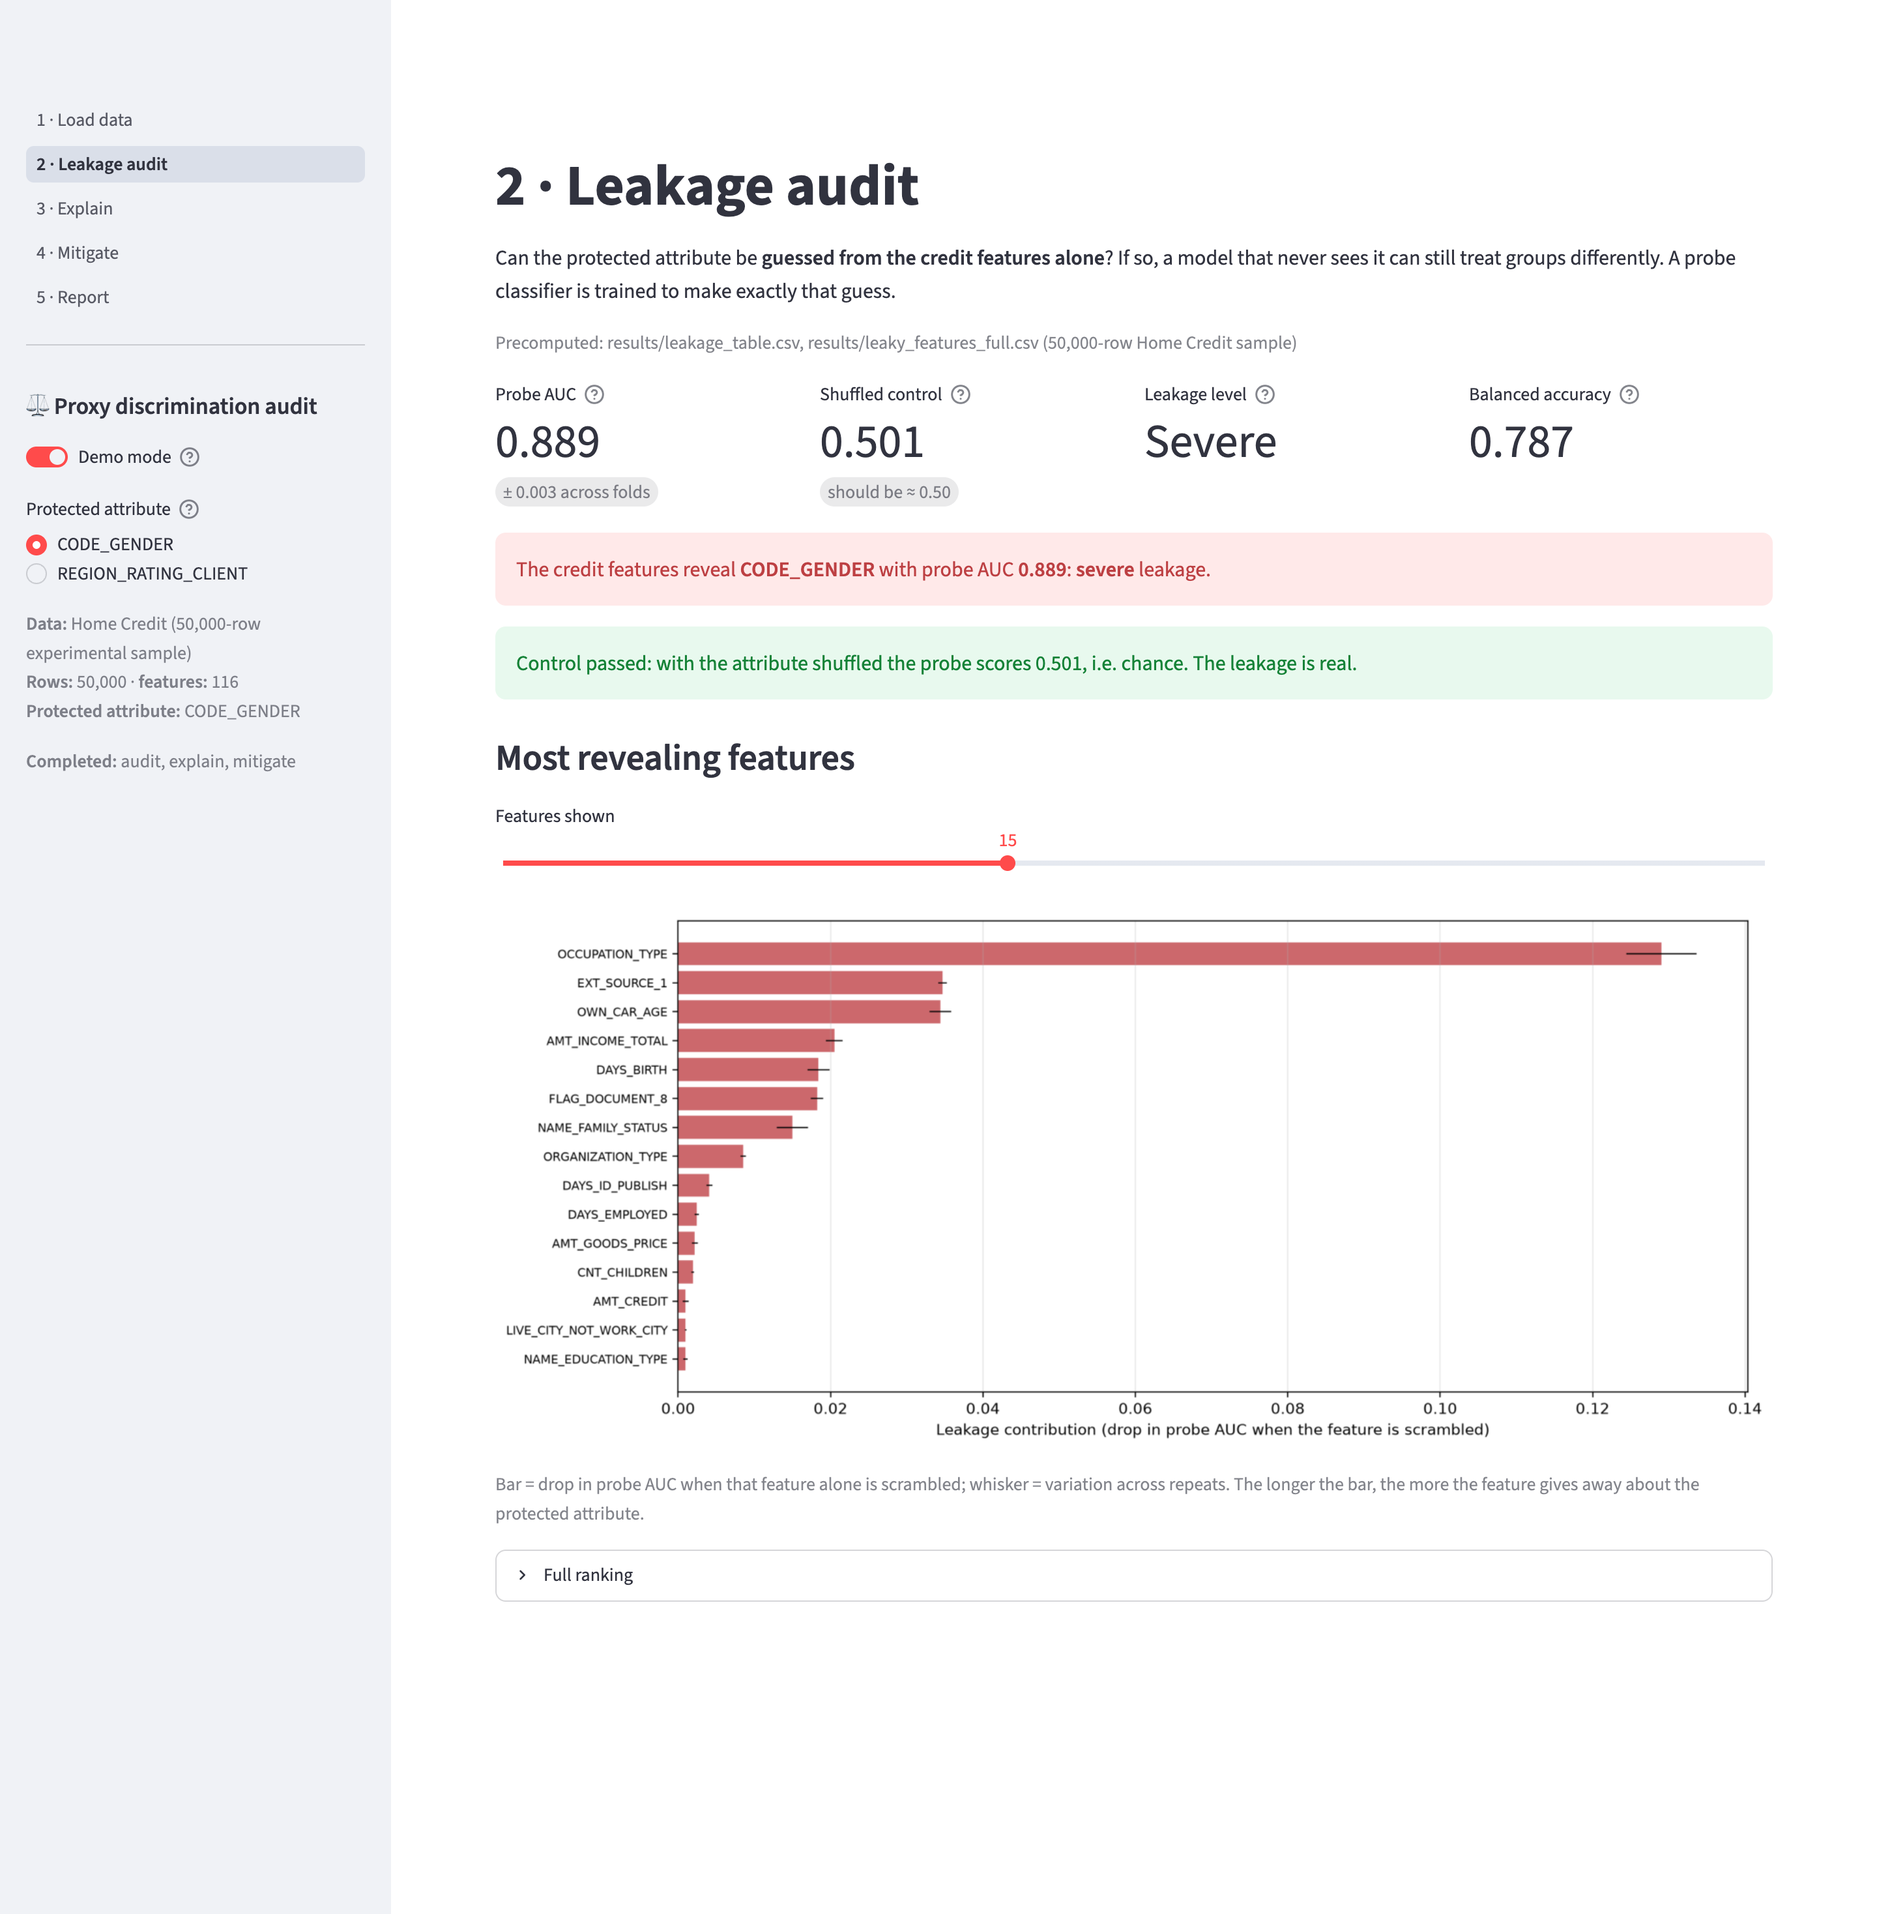
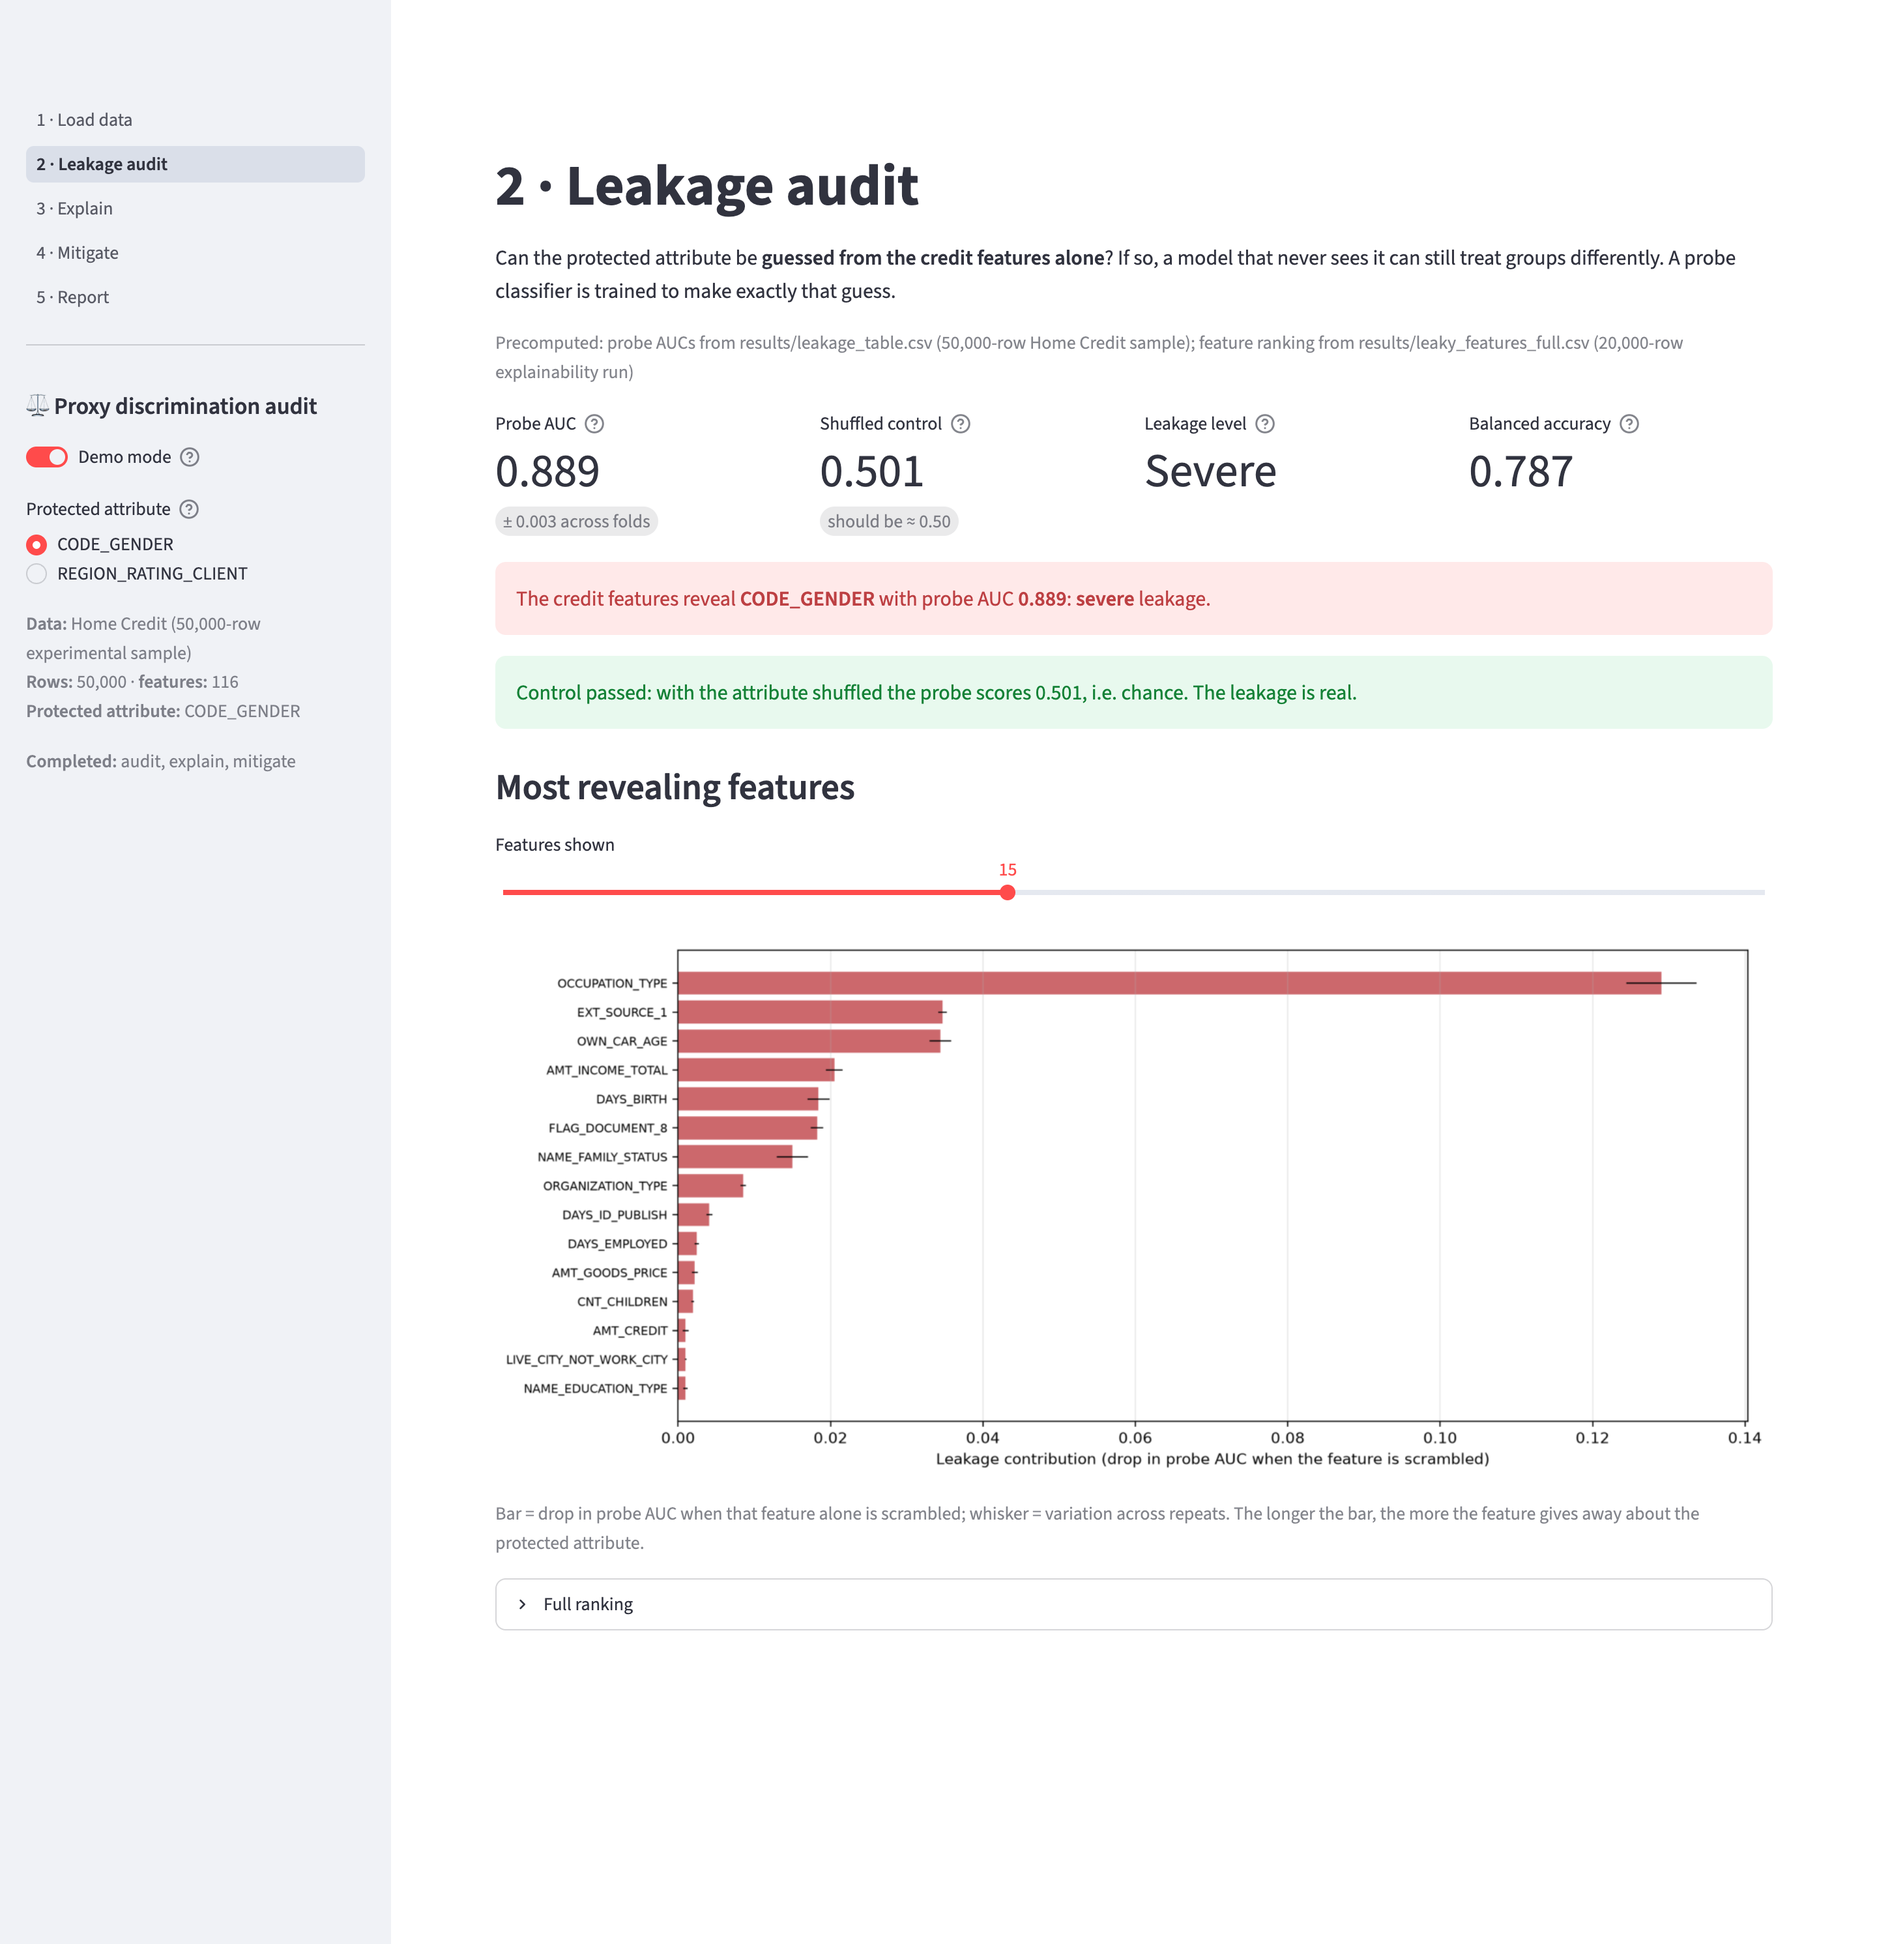
Name the explainability run as the source of the demo leakage ranking
The Screen 2 demo caption attributed results/leaky_features_full.csv to the
50,000-row sample. That file is written by run_explainability.py on a
20,000-row sample; only the probe AUCs in results/leakage_table.csv come from
the 50,000-row run. Retake the Screen 2 screenshot with the corrected caption.

diff --git a/app/engine.py b/app/engine.py
@@ -355,8 +355,9 @@ def manufactured(transitions: pd.DataFrame) -> pd.DataFrame:
 # ==========================================================================
 DEMO_ATTRIBUTES = ["CODE_GENDER", "REGION_RATING_CLIENT"]
 DEMO_SOURCE = {
-    "audit": "results/leakage_table.csv, results/leaky_features_full.csv "
-             "(50,000-row Home Credit sample)",
+    "audit": "probe AUCs from results/leakage_table.csv (50,000-row Home "
+             "Credit sample); feature ranking from "
+             "results/leaky_features_full.csv (20,000-row explainability run)",
     "explain": "results/mitigation_cross_analysis.csv, baseline arm "
                "(held-out 15,000 rows of the 50,000-row sample)",
     "mitigate": "results/iteration3/final_table.csv (mean of 25 folds, 8,000 "
